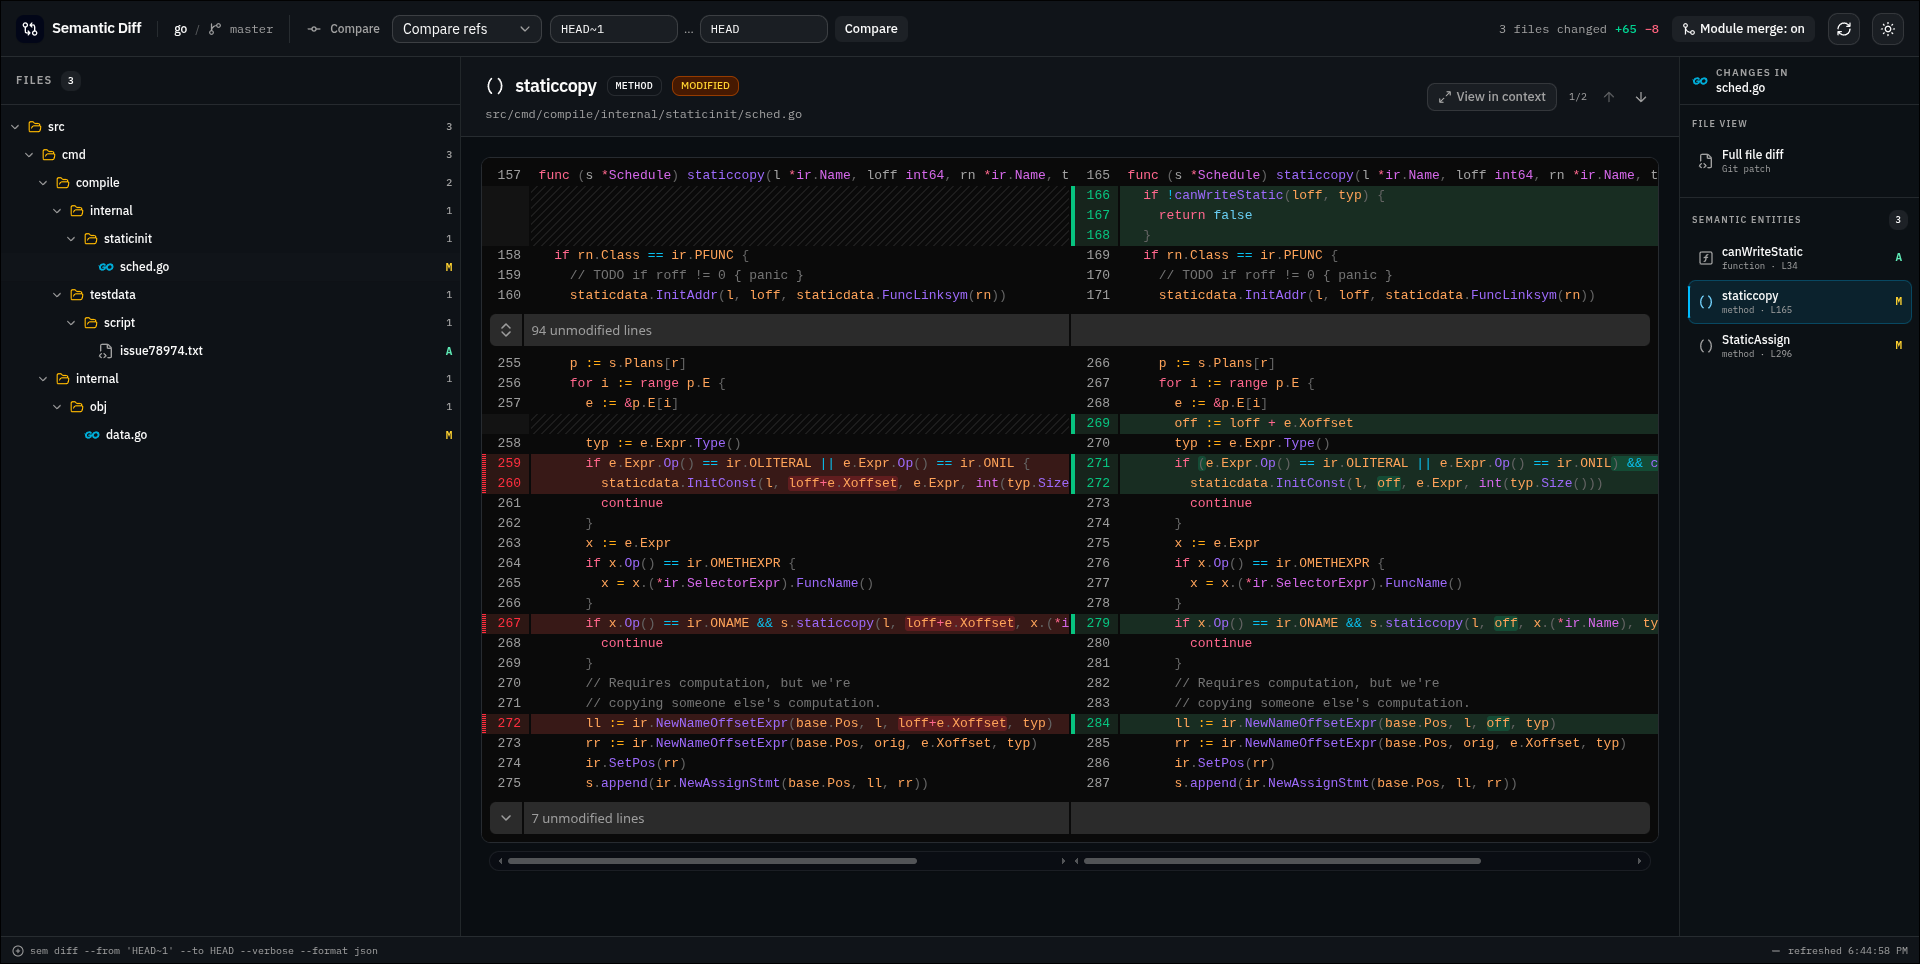
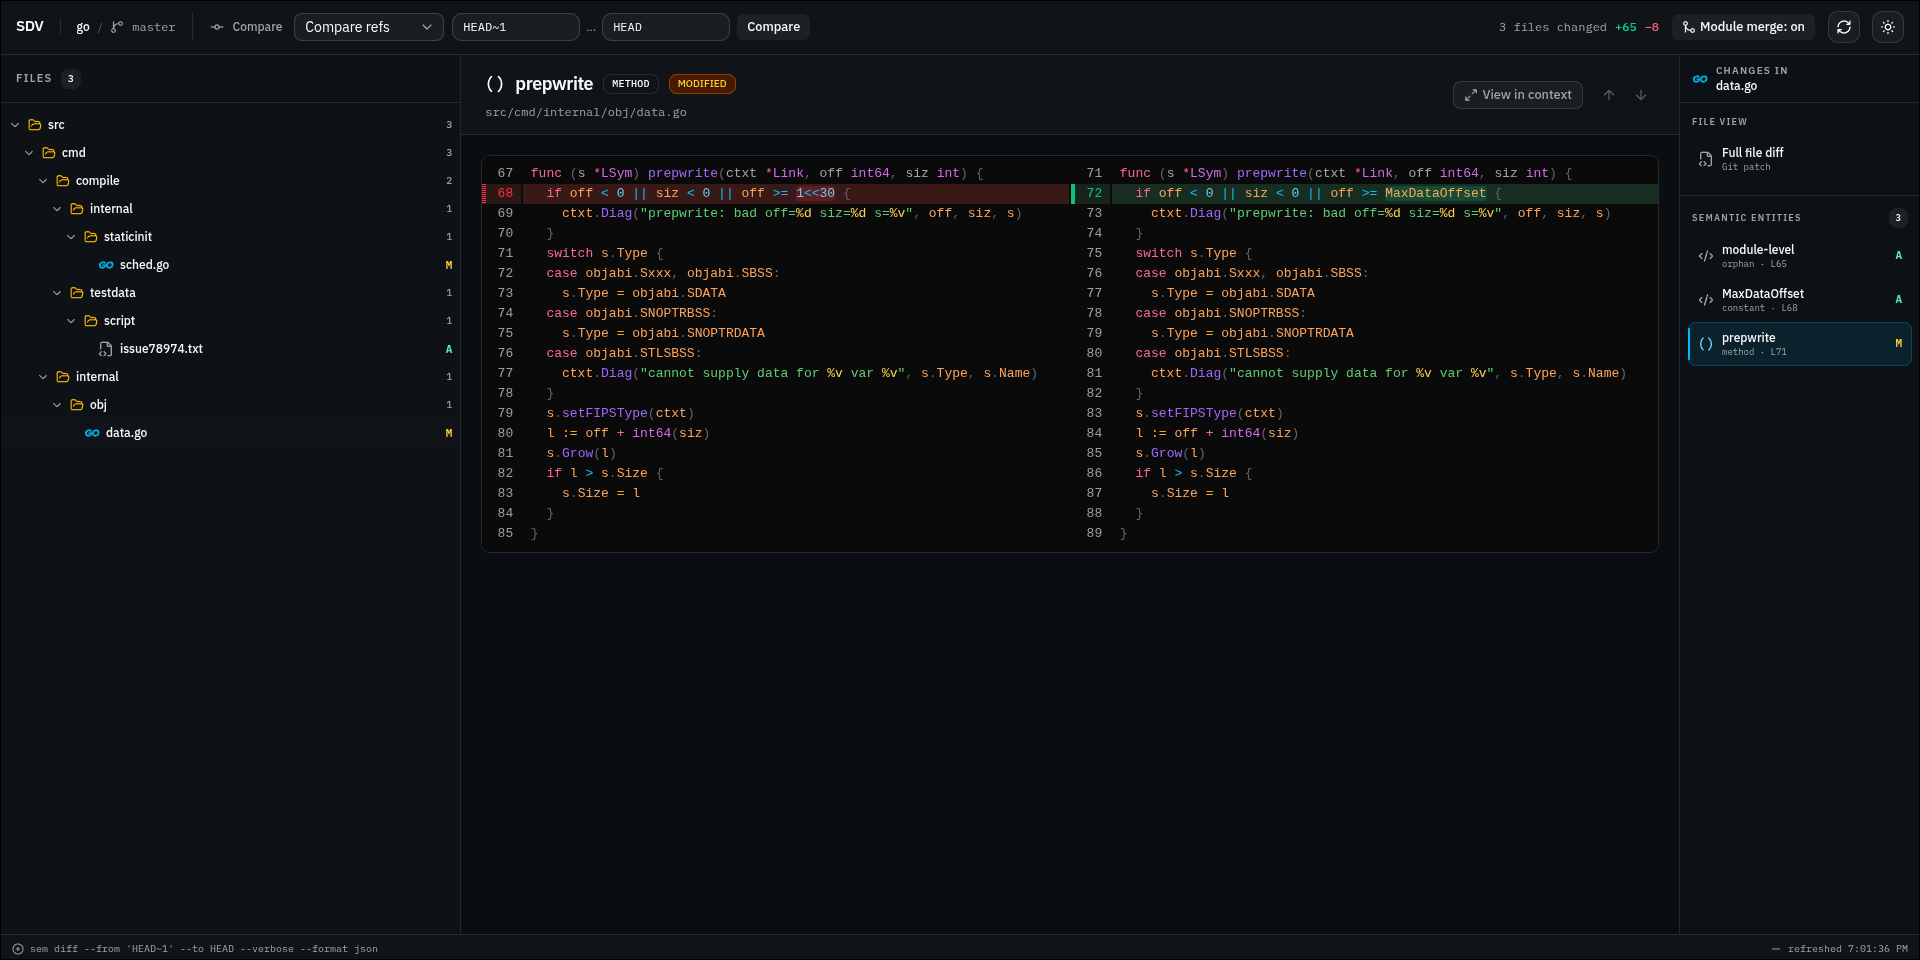
readme: showcase image

diff --git a/README.md b/README.md
@@ -1,5 +1,7 @@
 # Semantic Diff Viewer
 
+![Showcase](assets/showcase.png)
+
 A local browser UI for Git worktree diffs with entity-level semantic details
 from [`sem`](https://github.com/ataraxy-labs/sem).
 
